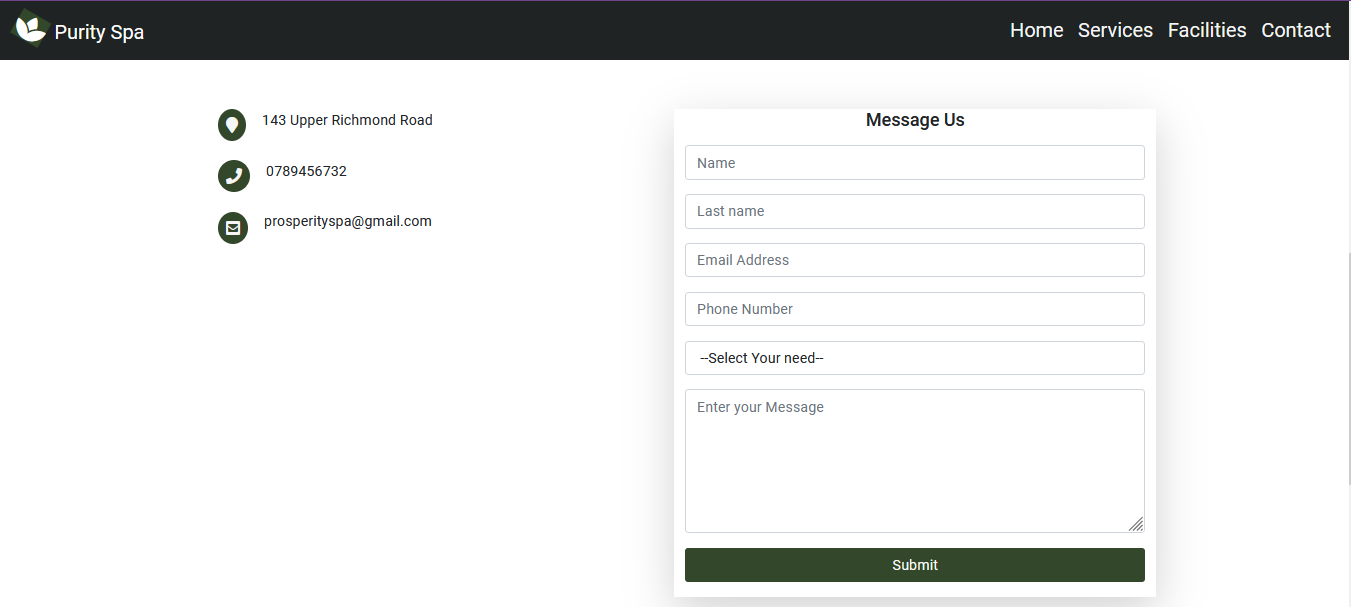
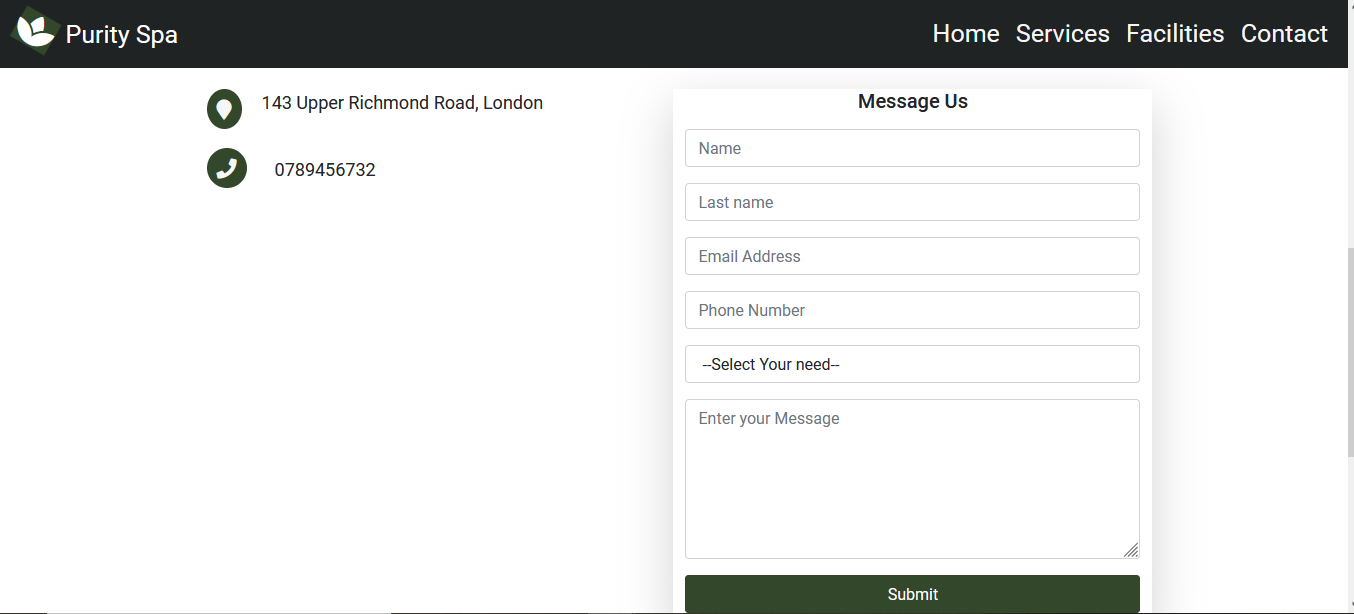
added media queries for devices

diff --git a/assets/style.css b/assets/style.css
@@ -395,25 +395,31 @@ background-color:  #33472B;
     
   }
 }
-@media only screen and (min-width:750px) and (max-width: 1100px) {
-  .video-container {
-   
-    
-  }
-}
 
-@media only screen and (min-width:900px) and (max-width: 100px) {
+
+@media only screen and (min-width:900px) and (max-width: 1220px) {
   .google-maps {
    width: 400px;
     
   }
 }
-@media only screen and (min-width:900px) and (max-width: 1100px) {
+@media only screen and (min-width:900px) and (max-width: 1220px) {
   .footer-area .list-inline,.footer-headings-follow-us {
    display:none;
     
   }
 }
+
+@media only screen and (min-width:500px) {
+  .table-footer, .list-inline, .footer-headings-info {
+   text-align: center;
+    
+  }
+}
+
+
+
+
 @media only screen and (max-width:500px) {
   .table-footer {
     text-align: center; 

diff --git a/facilities.html b/facilities.html
@@ -4,7 +4,7 @@
   <meta name="author" content="Konstantina Strantzali">
   <meta name="description" content="Purity Spa Center is a well-equipped spa, providing luxury treatment services.">
   <meta name="keywords" content="Spa, Leisure, Massage, Sauna, Treatments, Relax, London, Putney">
-  <link rel="shortcut icon" type="image/png" href="/assets/images/logo-image.png"/>
+  <link rel="shortcut icon" type="image/png" href="assets/images/logo-image.png"/>
 
     <!-- Required meta tags -->
     <meta charset="utf-8">

diff --git a/index.html b/index.html
@@ -152,9 +152,9 @@
             </tbody>
           </table>
         </div>
-        <div class="col-xs-12 mt-4 col-md-6 col-lg-3">
+        <div class="col-xs-12 mt-4 col-md-6 col-lg-3 footer-headings-info">
           <div id="spa-address">
-            <h4 class="footer-headings text-center p-2">Get in touch</h4>
+            <h4 class="footer-headings-info text-center p-2">Get in touch</h4>
             <div class="contact-info-container">
               <ul>
                 <li>
